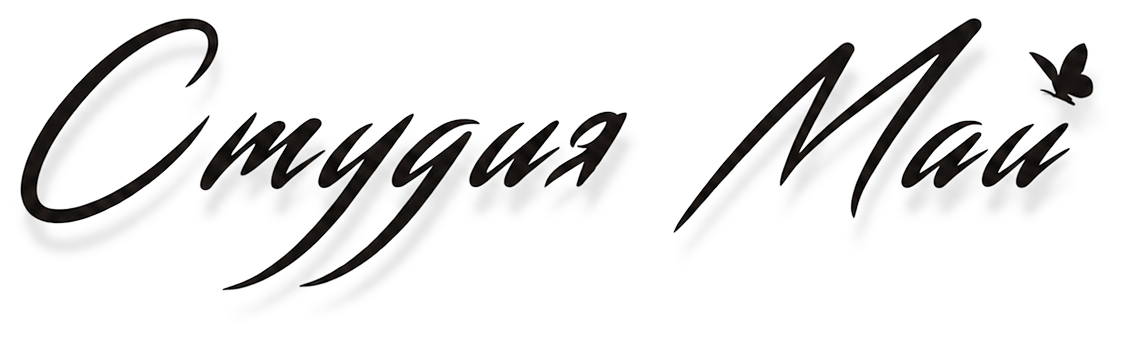
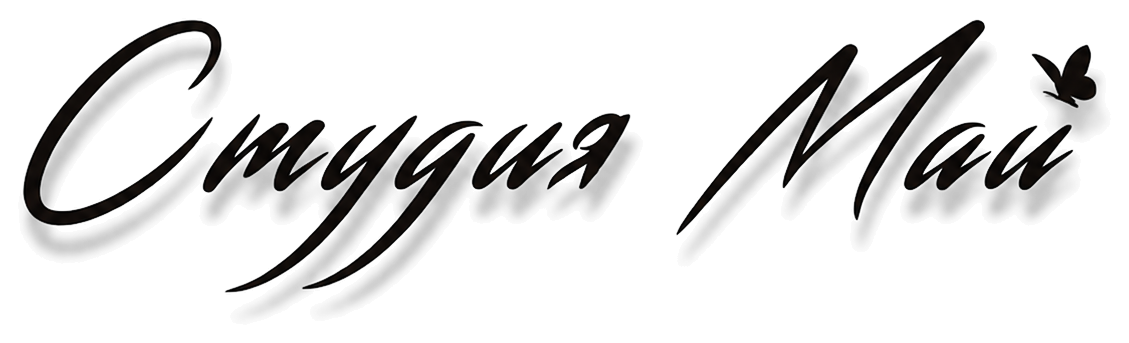
Сделать тень надписи «Студия Май» чуть ярче и заметнее.

diff --git a/index.html b/index.html
@@ -28,7 +28,7 @@
         <span class="logo__text">
           <span class="logo__mark">
             <span class="brand-title-wrap brand-title-wrap--header">
-              <img src="images/brand-title.png" alt="Студия Май" class="brand-title-img brand-title-img--header" width="1123" height="338" decoding="async">
+              <img src="images/brand-title.png" alt="Студия Май" class="brand-title-img brand-title-img--header" width="1129" height="343" decoding="async">
             </span>
           </span>
           <span class="logo__sub">Пермь</span>
@@ -68,7 +68,7 @@
         <div class="hero__brand-content">
           <p class="hero__site-name">
             <span class="brand-title-wrap brand-title-wrap--hero">
-              <img src="images/brand-title.png" alt="Студия Май" class="brand-title-img brand-title-img--hero" width="1123" height="338" decoding="async">
+              <img src="images/brand-title.png" alt="Студия Май" class="brand-title-img brand-title-img--hero" width="1129" height="343" decoding="async">
             </span>
           </p>
           <h1 class="hero__title hero__title--slogan">Красота, в которой <span class="accent">комфортно</span> оставаться <span class="accent">собой</span></h1>